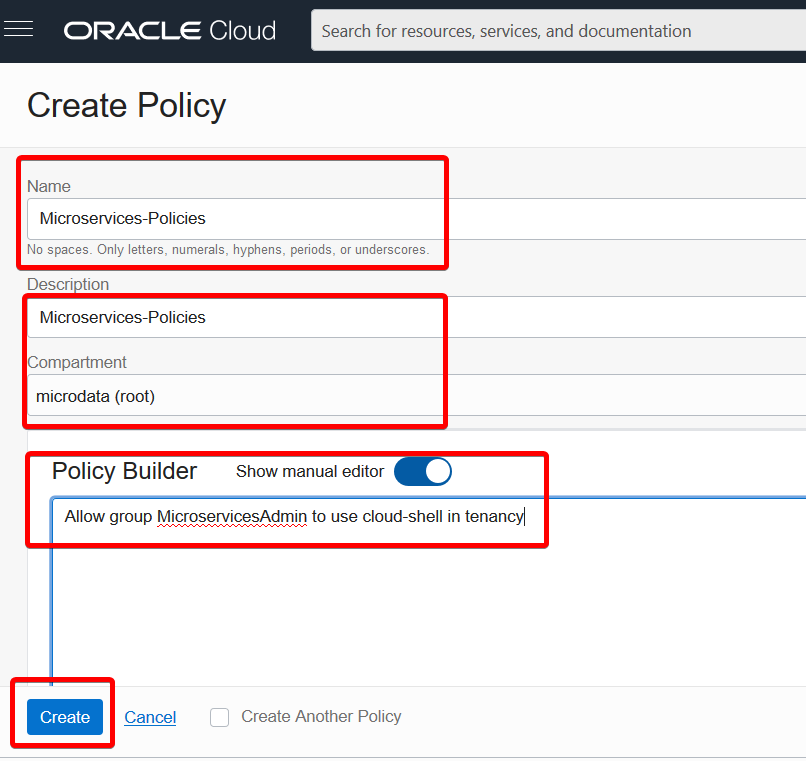
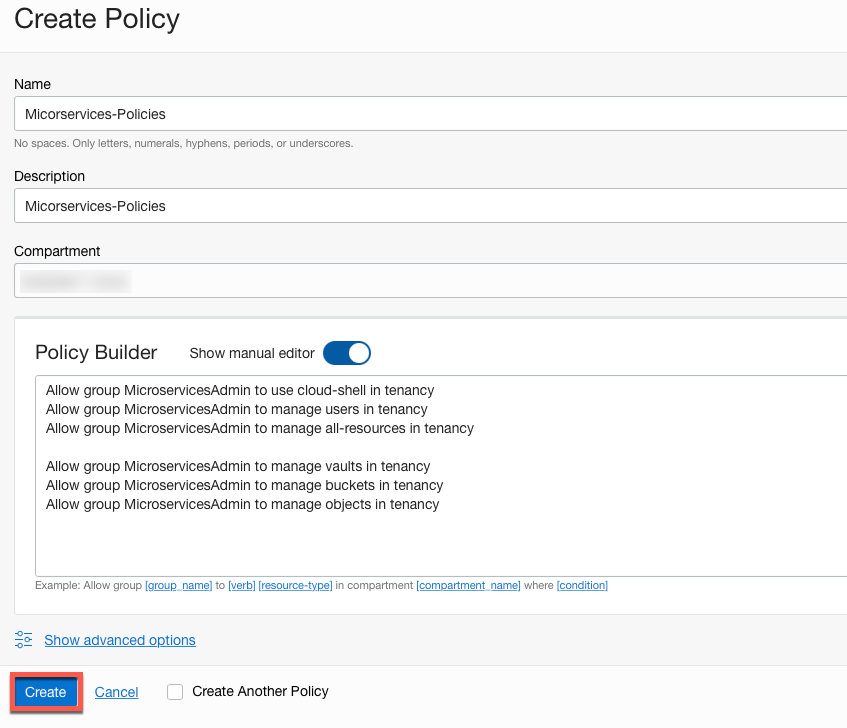
WMS ID 8022 - OCW Updates (#41)
* Initial push of documentation

* Set theme jekyll-theme-minimal

* Set theme jekyll-theme-cayman

* Set theme jekyll-theme-minimal

* minor update

* minor changes

* Update of setup.md

* Updates

* Minor updates

* Change to git clone

* Image name update

* Issue #20 & #21

* Issue #18 & #20

* Issue #18 & #21

* Issue #18, #21 & #22

* Link fixes

* Doc update

* Doc updates

* typo

* Delete ApplyRule.png

* Delete ButtonCreateRule.png

* Delete CreateRule.png

* Delete ForceHeader.png

* Delete NSG.png

* Delete NSGSave.png

* Fix image names

* Image fixes

* Delete nsg-Apigw.png

* Image fixes

* Image Fix

* Updates

* Updates

* Updates

* Removal of files

* Adding missing file

* Update to index.html

* Removed files

* Minor changes to setup

* Broken link fix

* Fixes to setup.md

* Spelling fixes

* Typos

* Squashed commit of the following:

commit 816229cbea112f511c05b7caebba47095d93bc07
Author: Arabella Yao <48001060+arabellayao@users.noreply.github.com>
Date:   Thu Sep 1 20:42:30 2022 -0700

    Add sample workshops (#38)

    * removed #8081

    * Update README.md

    * Update index.html

    * Create pull_request_template.md

    * Add sample workshops

* WMS ID 8022 - OCW Updates

WMS ID 8022 - OCW Updates

Changed region(s): [[0.0, 0.0, 1.0, 0.9973]]

diff --git a/microservices-oracleteq-kafka/setup/setup.md b/microservices-oracleteq-kafka/setup/setup.md
@@ -15,7 +15,7 @@ Estimated Time: 15 minutes
 
 - This lab requires completion of the Get Started section in the Contents menu on the left.
 - An Oracle Cloud paid account or free trial. To sign up for a trial account with $300 in credits for 30 days, click [Sign Up](http://oracle.com/cloud/free).
-- The workshop also requires Always Free 19c ATP instance.
+- The workshop also an Always Free 19c ATP instance.
 
 ## **Task 1:** Log in to the Oracle Cloud Console
 
@@ -68,10 +68,12 @@ Here are the steps for creating a new group and assigning security policy requir
 3. In the Create Group dialog box, enter the following:
 
     - **Name**: Enter a unique name for your group, such as "MicroservicesAdmin”. Note that the group name cannot contain spaces.
-    - **Description**: Enter a description (for example, “New group for microservices workshop”).
+    - **Description**: Enter a description (for example, “Group for microservices workshop”).
     - Click **Create**.
 
    ![Create a New Group](images/new-group.png " ")
+
+   - Click Groups
 
    ![Review a New Group](images/get-new-group.png " ")
 
@@ -79,7 +81,7 @@ Here are the steps for creating a new group and assigning security policy requir
 
    ![Oracle Cloud Infrastructure Identity & Security Groups Screen](images/id-policies.png)
 
-5. Click Create Policy.
+5. Select the Root Compartment from the dropdown on the left hand side (the name of your tenancy) and click Create Policy.
 
    ![Create a New Policy](images/create-policy-button.png)
 
@@ -88,7 +90,7 @@ Here are the steps for creating a new group and assigning security policy requir
     - **Name**: Enter a unique name for your policy, such as "Micorservices-Policies"
     - **Description**: Enter a description. For Example "Micorservices-Policies"
 
-   Using **Edit Policy Statement** option, add the below statements to the policy created above.
+   Using **Show manual editor** option, add the below statements to the policy created above.
 
     ```bash
     <copy>
@@ -103,7 +105,7 @@ Here are the steps for creating a new group and assigning security policy requir
     </copy>
     ```
 
-    ![Policy Statements](images/policy-statements.png " ")
+    <!-- ![Policy Statements](images/policy-statements.png " ") -->
 
 7. Click Create
 
@@ -164,7 +166,11 @@ Cloud Shell is a small virtual machine running a "bash" shell which you access t
 
    User information is available in the Oracle Cloud Infrastructure Console.
 
-   The user OCID will look something like `ocid1.user.oc1..aaaaaa==========l4oi======fasdf===f4===bta`. Pay attention to the "ocid1.user" prefix as this will tell you that it is a User OCID and not a Tenancy OCID.
+   The user OCID will look something like:
+
+    `ocid1.user.oc1..aaaaaaaabcdefghijklmnopqrstuvwxyz` 
+   
+    Pay attention to the "**ocid1.user**" prefix as this will tell you that it is a User OCID and not a Tenancy OCID.
 
    Sometimes the name link is missing in which case select the `User Settings` link. Do not select the "Tenancy" link.
 
@@ -172,7 +178,7 @@ Cloud Shell is a small virtual machine running a "bash" shell which you access t
 
       ![Obtain Oracle Cloud Infrastructure User OCID](images/get-user-ocid.png " ")
 
-   b. Click Show to see the details and then click Copy to copy the user OCID to the clipboard, paste in the copied data in console.
+   b. Click Show to see the details and then click Copy to copy the user OCID to the clipboard. You will need this value during the setup e.g. paste in the copied data in Cloud Shell console.
 
       ![Oracle Cloud Infrastructure User OCID example](images/example-user-ocid.png " ")
 
@@ -257,7 +263,7 @@ Once the majority of the setup has been completed the setup will periodically pr
   2. View the processes logs. Their are located in the $LAB_LOG directory.
 
       ```bash
-      <copy>ls -al $LAB_LOG</copy>
+      <copy>ls -al $LAB_HOME/cloud-setup/log</copy>
       ```
 
 You may now **proceed to the next lab**
@@ -266,4 +272,4 @@ You may now **proceed to the next lab**
 
 - **Authors** - Paulo Simoes, Developer Evangelist; Andy Tael, Developer Evangelist; Paul Parkinson, Developer Evangelist; Richard Exley, Consulting Member of Technical Staff, Oracle MAA and Exadata
 - **Contributors** - Mayank Tayal, Developer Evangelist; Corrado De Bari, Developer Evangelist; Sanjay Goil, VP Microservices and Oracle Database
-- **Last Updated By/Date** - Andy Tael, Aug 2022
+- **Last Updated By/Date** - Andy Tael, Sep 2022

diff --git a/microservices-oracleteq-kafka/deploy-and-test-teq/deploy-and-test-teq.md b/microservices-oracleteq-kafka/deploy-and-test-teq/deploy-and-test-teq.md
@@ -2,7 +2,7 @@
 
 ## Introduction
 
-This laboratory helps you know how to build an Event-driven architecture based on Spring Boot microservices that “communicate” asynchronously using Oracle Transactional Event Queues (TEQ). The laboratory have two microservices, a producer and a consumer, built using Spring Boot framework that connect with an Oracle Transactional Event Queue (TEQ) to exchange events, and use okafka library tthat contains Oracle specific implementation of Kafka Client Java APIs.
+This laboratory helps you know how to build an Event-driven architecture based on Spring Boot microservices that “communicate” asynchronously using Oracle Transactional Event Queues (TEQ). The laboratory have two microservices, a producer and a consumer, built using Spring Boot framework that connect with an Oracle Transactional Event Queue (TEQ) to exchange events, and use okafka library that contains the Oracle implementation of Kafka Client Java APIs.
 
 Estimated Time: 15 minutes
 
@@ -101,7 +101,7 @@ As a result of the Maven build task, you should obtain the following lines showi
     TEQ_MS_PRODUCER_DEPLOYED completed
     ```
 
-    > **Note:** If the deployment task did not complete correctly, you can investigate the deployment task logs at "$LAB_LOG"/teq-ms-producer-deployment.log
+    > **Note:** If the deployment task did not complete correctly, you can investigate the deployment task logs at "$LAB_LOG/teq-ms-producer-deployment.log"
 
 2. Launch a TEQ producer microservice
 
@@ -114,7 +114,7 @@ As a result of the Maven build task, you should obtain the following lines showi
     </copy>
     ```
 
-    If the deployment task is successful, you will receive the messages "TEQ producer microservice is running!". Yet it is possible to evaluate the logs from the producer issuing the following command to list the late six lines from the container log. Look for `OKafka Producer Application Running!`
+    If the deployment task is successful, you will receive the messages `TEQ producer microservice is running!`. Yet it is possible to evaluate the logs from the producer issuing the following command to list the late six lines from the container log. Look for `OKafka Producer Application Running!`
 
     ```bash
     <copy>container-logs teq-producer 6</copy>
@@ -167,7 +167,7 @@ Now that we have Producer running and publishing events inside the TEQ Broker, y
     TEQ_MS_CONSUMER_DEPLOYED completed
     ```
 
-    > **Note:** If the deployment task did not complete correctly, you can investigate the deployment task logs at "$LAB_LOG"/teq-ms-consumer-deployment.log
+    > **Note:** If the deployment task did not complete correctly, you can investigate the deployment task logs at "$LAB_LOG/teq-ms-consumer-deployment.log".
 
 2. Launch a TEQ consumer microservice
 
@@ -361,4 +361,4 @@ You may now **proceed to the next lab**
 
 - **Authors** - Paulo Simoes, Developer Evangelist; Andy Tael, Developer Evangelist; Paul Parkinson, Developer Evangelist; Richard Exley, Consulting Member of Technical Staff, Oracle MAA and Exadata
 - **Contributors** - Mayank Tayal, Developer Evangelist; Corrado De Bari, Developer Evangelist; Sanjay Goil, VP Microservices and Oracle Database
-- **Last Updated By/Date** - Andy Tael, Aug 2022
+- **Last Updated By/Date** - Andy Tael, Sep 2022

diff --git a/microservices-oracleteq-kafka/deploy-and-test-kafka/deploy-and-test-kafka.md b/microservices-oracleteq-kafka/deploy-and-test-kafka/deploy-and-test-kafka.md
@@ -31,6 +31,7 @@ Estimated Time: 10 minutes
     As a result, you will see the following components created:
 
     ```bash
+    
     NAME                COMMAND                  SERVICE             STATUS              PORTS
     broker              "/etc/confluent/dock…"   broker              created
     connect             "/etc/confluent/dock…"   connect             created
@@ -54,6 +55,7 @@ Estimated Time: 10 minutes
     ⠿ Container broker           Started                1.7s
     ⠿ Container schema-registry  Started                3.1s
     ⠿ Container connect          Started                4.4s
+    Connecting Kafka broker on network teqod_net
     KAFKA_RUNNING completed
     ```
 
@@ -77,7 +79,6 @@ Estimated Time: 10 minutes
     ```bash
     <copy>
     source $LAB_HOME/cloud-setup/env.sh
-    source $LAB_HOME/cloud-setup/setup.sh
     </copy>
     ```
 
@@ -149,7 +150,7 @@ As a result of the Maven build task, you should obtain the following lines showi
     </copy>
     ```
 
-    If the deployment task is successful, you will receive the messages "Kafka producer microservice is running!". Yet it is possible to evaluate the logs from the producer issuing the following command to list the late six lines from the container log. Look for `Started KafkaProducerApplication`
+    If the deployment task is successful, you will receive the messages `Kafka producer microservice is running!`. You can evaluate the logs from the producer issuing the following command to list the late six lines from the container log. Look for `Started KafkaProducerApplication`
 
     ```bash
     <copy>container-logs kafka-producer 6</copy>
@@ -208,9 +209,8 @@ Now that we have Producer running and publishing events inside the Kafka Broker,
     If the deployment task is successful, you will receive the messages below:
 
     ```bash
-    Executing Kafka consumer microservice deployment!
     Kafka consumer microservices deployment succeeded!
-    Successfully built 8cd3a837ad94 Successfully tagged oracle-developers-kafka-consumer:0.0.1-SNAPSHOT grep: /home/paulo_simo/teqodb/microservices-datadriven/work 
+    Successfully built 2c22d0d1b20a Successfully tagged oracle-developers-kafka-consumer:0.0.1-SNAPSHOT
     KAFKA_MS_CONSUMER_DEPLOYED completed
     ```
 
@@ -286,4 +286,4 @@ You may now **proceed to the next lab**
 
 - **Authors** - Andy Tael, Developer Evangelist; Paulo Simoes, Developer Evangelist; Paul Parkinson, Developer Evangelist; Richard Exley, Consulting Member of Technical Staff, Oracle MAA and Exadata
 - **Contributors** - Mayank Tayal, Developer Evangelist; Corrado De Bari, Developer Evangelist; Sanjay Goil, VP Microservices and Oracle Database
-- **Last Updated By/Date** - Andy Tael, Aug 2022
+- **Last Updated By/Date** - Andy Tael, Sep 2022

diff --git a/microservices-oracleteq-kafka/teardown/teardown.md b/microservices-oracleteq-kafka/teardown/teardown.md
@@ -114,15 +114,38 @@ Estimates Time: 10 minutes
 1. Delete the directory in your cloud shell where you installed the workshop.
 
     ```bash
-     <copy>rm -rf <directory name, e.g. teqodb></copy>
+     <copy>
+     cd $HOME
+     rm -rf teqodb
+     </copy>
+    ```
+
+    **Option:** If you want to delete and reset **EVERYTHING** in your Cloud Shell you can execute the following command (it can **NOT** be reversed!)
+
+    ```bash
+    <copy>
+    csreset -a
+    </copy>
     ```
 
 ## **Task 3:** Delete the Compartment
 
 In the Oracle Cloud Infraestructure Console navigate to the Compartments screen in the Identity section. Select the compartment that was created for the workshop and delete it. Important, even when the script in step 1 has completed, it can take some time for Oracle Cloud Infrastructure to fully remove all the resources. It will not be possible to delete the compartment until this has completed.
 
+1. Click the Navigation Menu in the upper left, navigate to Identity & Security and select Compartments.
+
+![Compartment Menu](images/compartment.png " ")
+
+2. Click on the Compartment created by the Workshop (teqodb)
+
+![Select Compartment](images/select_comp.png " ")
+
+3. Click the Delete button
+
+![Select Compartment](images/delete_comp.png " ")
+
 ## Acknowledgements
 
 - **Authors** - Paulo Simoes, Developer Evangelist; Paul Parkinson, Developer Evangelist; Richard Exley, Consulting Member of Technical Staff, Oracle MAA and Exadata
 - **Contributors** - Mayank Tayal, Developer Evangelist; Andy Tael, Developer Evangelist; Corrado De Bari, Developer Evangelist; Sanjay Goil, VP Microservices and Oracle Database
-- **Last Updated By/Date** - Paulo Simoes, Aug 2022
+- **Last Updated By/Date** - Andy Tael, Sep 2022

diff --git a/microservices-oracleteq-kafka/kafka-connect-teq/kafka-connect-teq.md b/microservices-oracleteq-kafka/kafka-connect-teq/kafka-connect-teq.md
@@ -263,4 +263,4 @@ You may now **proceed to the next lab**
 
 - **Authors** - Paulo Simoes, Developer Evangelist; Andy Tael, Developer Evangelist; Paul Parkinson, Developer Evangelist; Richard Exley, Consulting Member of Technical Staff, Oracle MAA and Exadata
 - **Contributors** - Mayank Tayal, Developer Evangelist; Corrado De Bari, Developer Evangelist; Sanjay Goil, VP Microservices and Oracle Database
-- **Last Updated By/Date** - Andy Tael, Aug 2022
+- **Last Updated By/Date** - Andy Tael, Sep 2022
